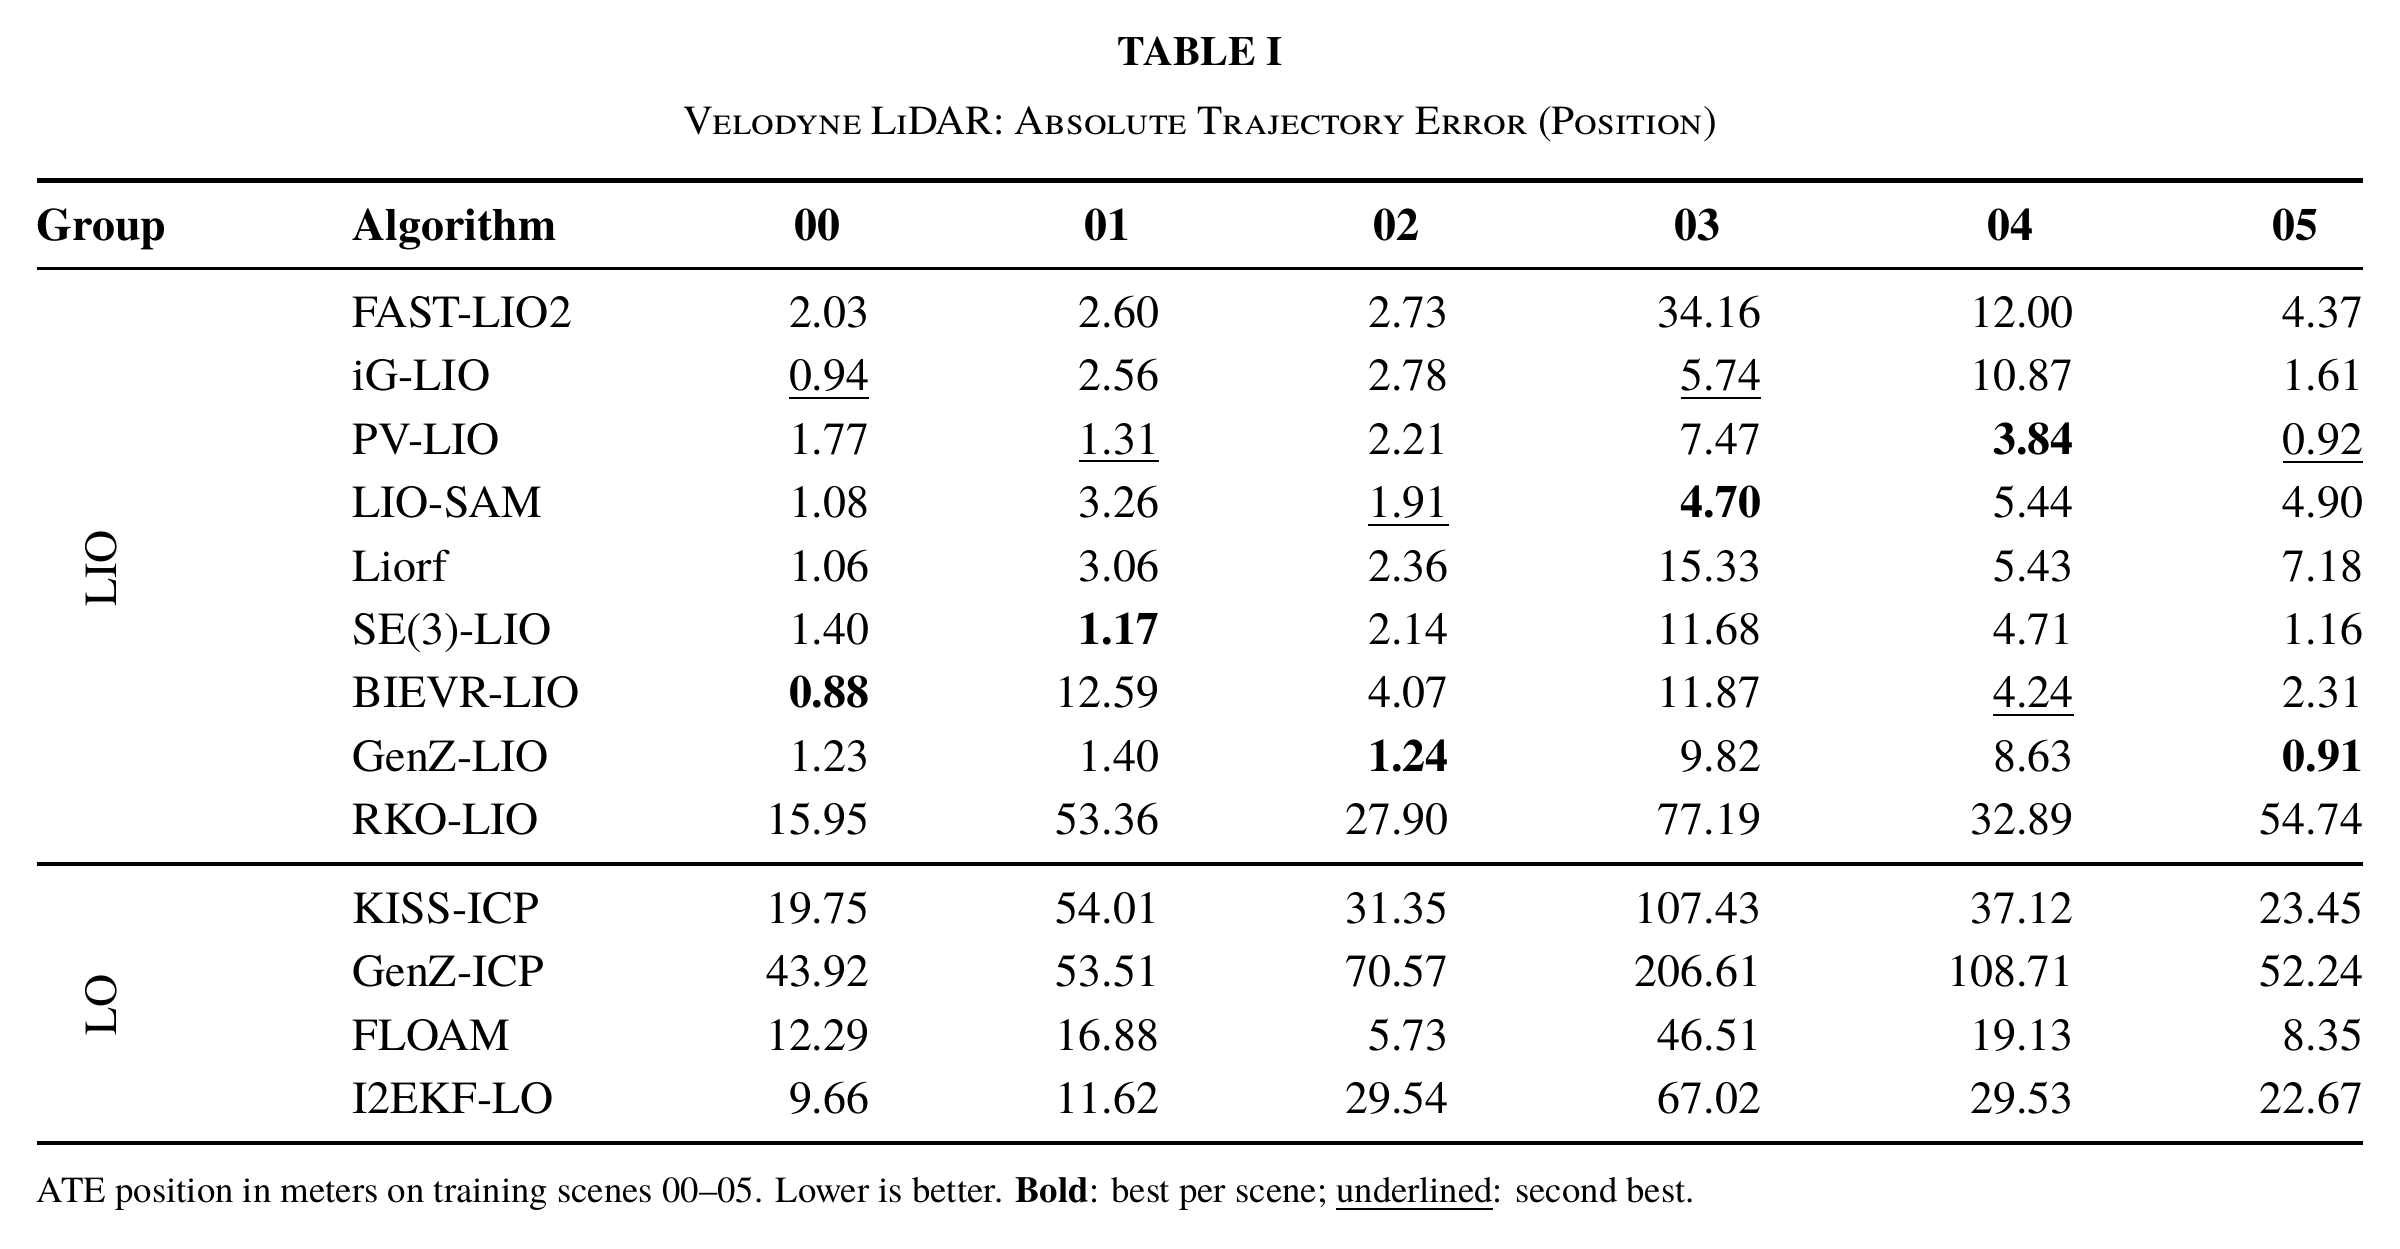
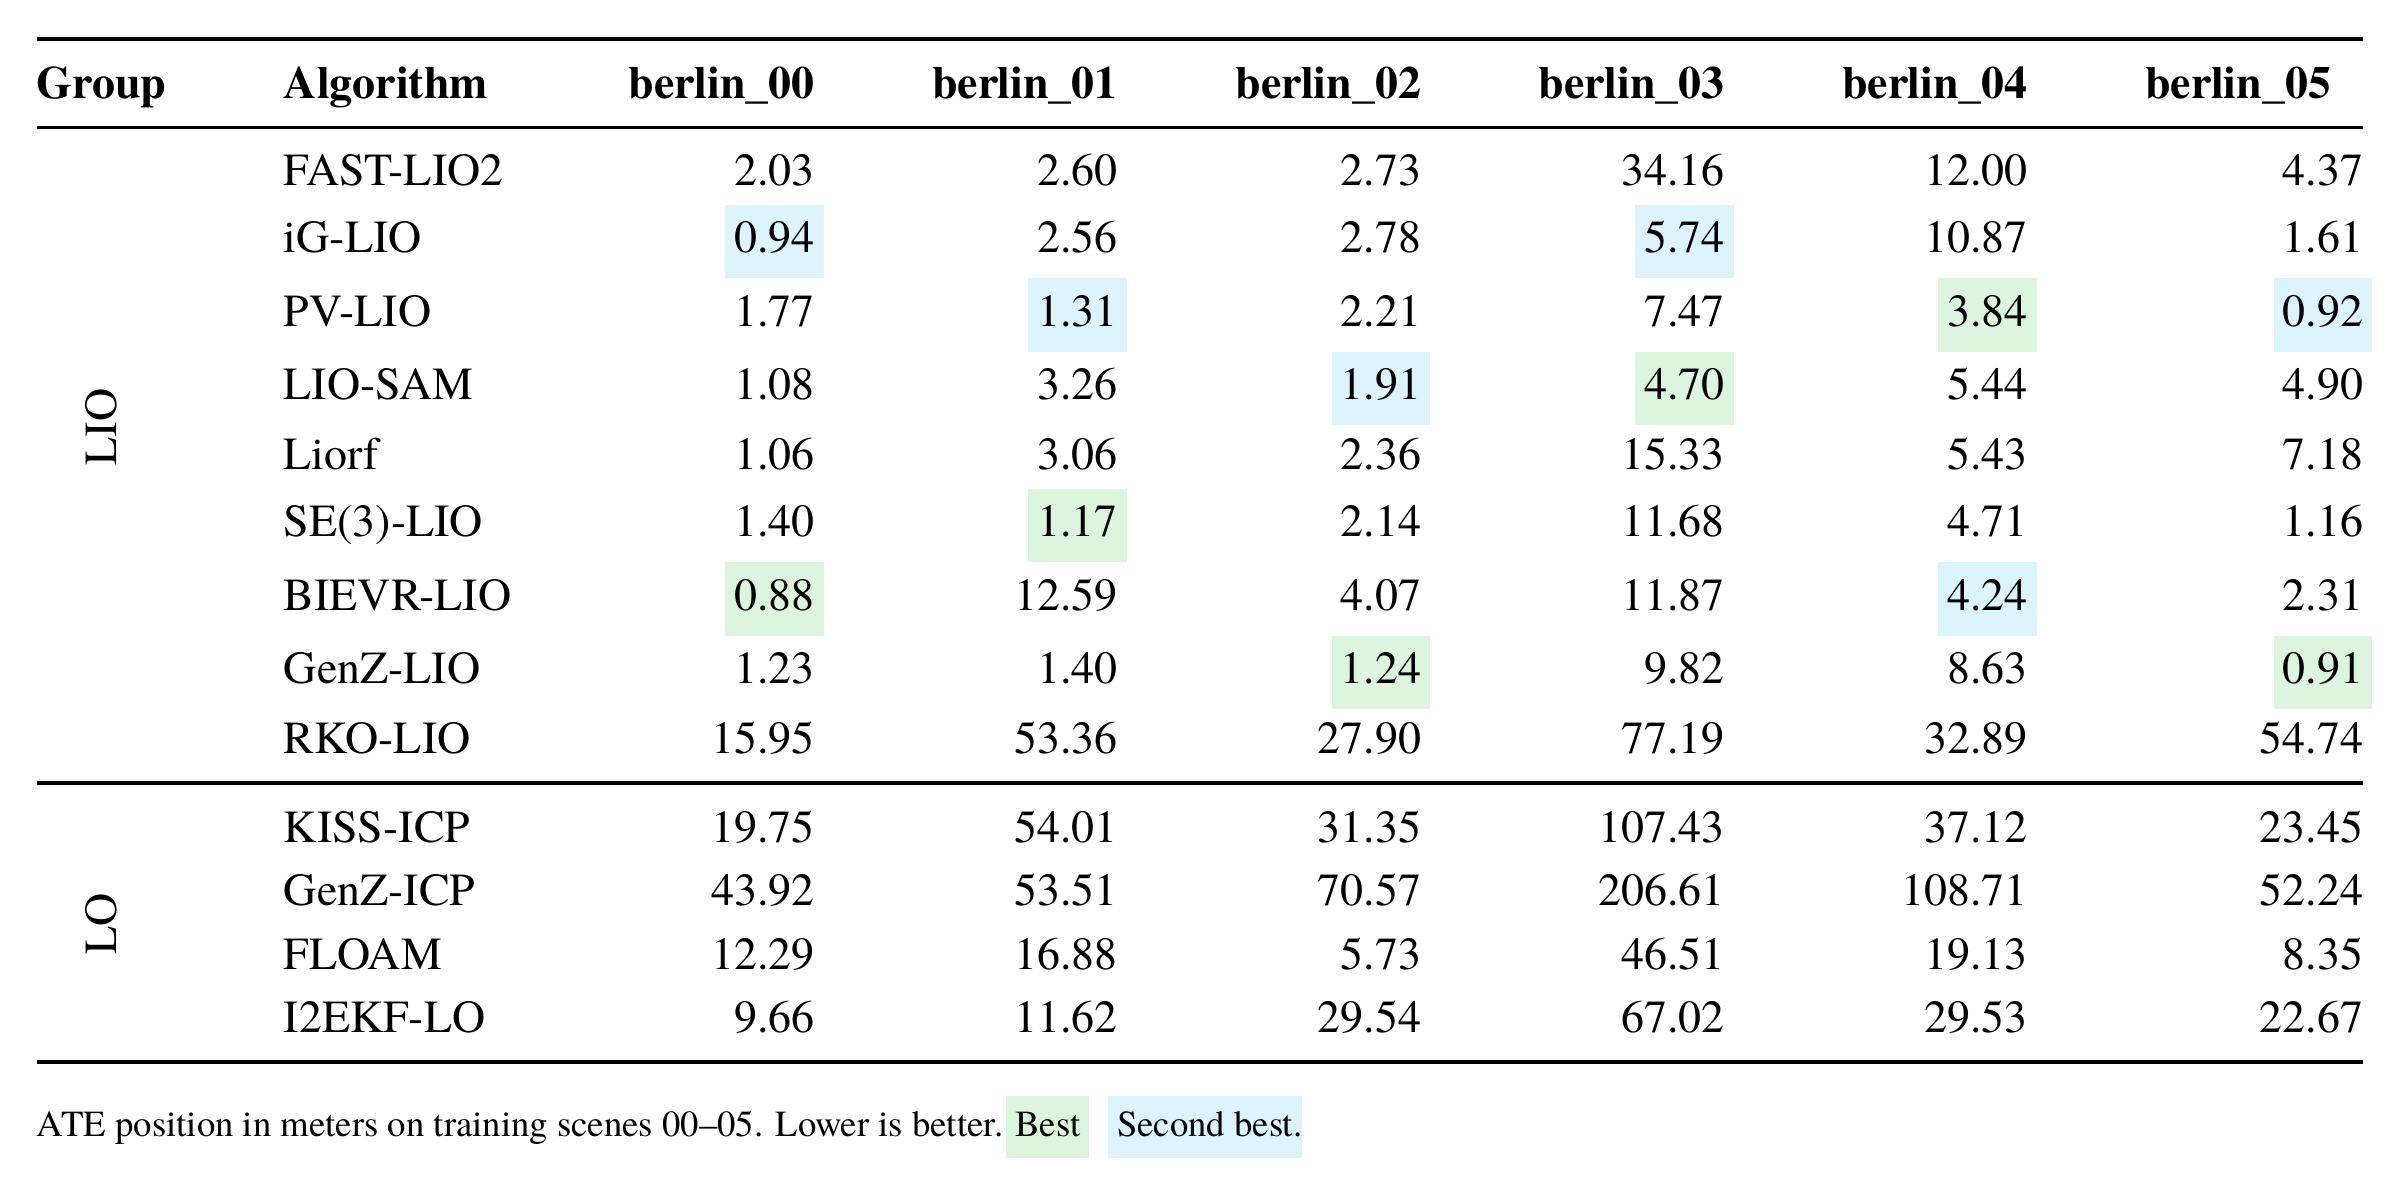
Use colored highlights and full scene labels in Velodyne PDF table

diff --git a/benchmarks/velodyne_ate_robotics.tex b/benchmarks/velodyne_ate_robotics.tex
@@ -1,29 +1,35 @@
 \documentclass[border=8pt]{standalone}
-\usepackage{booktabs,multirow,graphicx,fontspec}
+\usepackage{booktabs,multirow,graphicx,fontspec,xcolor}
 \setmainfont{texgyretermes-regular.otf}[
   BoldFont=texgyretermes-bold.otf,
   ItalicFont=texgyretermes-italic.otf,
   BoldItalicFont=texgyretermes-bolditalic.otf
 ]
+\definecolor{bestTint}{HTML}{DDF4DF}
+\definecolor{secondTint}{HTML}{DDF4FF}
+\newcommand{\atehighlight}[2]{%
+  \begingroup
+  \setlength{\fboxsep}{2pt}%
+  \kern-\fboxsep\colorbox{#1}{\strut #2}\kern-\fboxsep
+  \endgroup
+}
 \begin{document}
 \begin{minipage}{17.8cm}
 \centering
-{\small\textbf{TABLE I}\\[3pt]\textsc{Velodyne LiDAR: Absolute Trajectory Error (Position)}}
-\par\vspace{7pt}
 \renewcommand{\arraystretch}{1.15}
 \setlength{\tabcolsep}{7pt}
 \begin{tabular*}{\linewidth}{@{\extracolsep{\fill}}clrrrrrr@{}}
 \toprule[1pt]
-\textbf{Group} & \textbf{Algorithm} & \multicolumn{1}{c}{\textbf{00}} & \multicolumn{1}{c}{\textbf{01}} & \multicolumn{1}{c}{\textbf{02}} & \multicolumn{1}{c}{\textbf{03}} & \multicolumn{1}{c}{\textbf{04}} & \multicolumn{1}{c}{\textbf{05}} \\
+\textbf{Group} & \textbf{Algorithm} & \multicolumn{1}{c}{\textbf{berlin\_00}} & \multicolumn{1}{c}{\textbf{berlin\_01}} & \multicolumn{1}{c}{\textbf{berlin\_02}} & \multicolumn{1}{c}{\textbf{berlin\_03}} & \multicolumn{1}{c}{\textbf{berlin\_04}} & \multicolumn{1}{c}{\textbf{berlin\_05}} \\
 \midrule[0.7pt]
 \multirow{9}{*}{\rotatebox[origin=c]{90}{LIO}} & FAST-LIO2 & 2.03 & 2.60 & 2.73 & 34.16 & 12.00 & 4.37 \\
- & iG-LIO & \underline{0.94} & 2.56 & 2.78 & \underline{5.74} & 10.87 & 1.61 \\
- & PV-LIO & 1.77 & \underline{1.31} & 2.21 & 7.47 & \textbf{3.84} & \underline{0.92} \\
- & LIO-SAM & 1.08 & 3.26 & \underline{1.91} & \textbf{4.70} & 5.44 & 4.90 \\
+ & iG-LIO & \atehighlight{secondTint}{0.94} & 2.56 & 2.78 & \atehighlight{secondTint}{5.74} & 10.87 & 1.61 \\
+ & PV-LIO & 1.77 & \atehighlight{secondTint}{1.31} & 2.21 & 7.47 & \atehighlight{bestTint}{3.84} & \atehighlight{secondTint}{0.92} \\
+ & LIO-SAM & 1.08 & 3.26 & \atehighlight{secondTint}{1.91} & \atehighlight{bestTint}{4.70} & 5.44 & 4.90 \\
  & Liorf & 1.06 & 3.06 & 2.36 & 15.33 & 5.43 & 7.18 \\
- & SE(3)-LIO & 1.40 & \textbf{1.17} & 2.14 & 11.68 & 4.71 & 1.16 \\
- & BIEVR-LIO & \textbf{0.88} & 12.59 & 4.07 & 11.87 & \underline{4.24} & 2.31 \\
- & GenZ-LIO & 1.23 & 1.40 & \textbf{1.24} & 9.82 & 8.63 & \textbf{0.91} \\
+ & SE(3)-LIO & 1.40 & \atehighlight{bestTint}{1.17} & 2.14 & 11.68 & 4.71 & 1.16 \\
+ & BIEVR-LIO & \atehighlight{bestTint}{0.88} & 12.59 & 4.07 & 11.87 & \atehighlight{secondTint}{4.24} & 2.31 \\
+ & GenZ-LIO & 1.23 & 1.40 & \atehighlight{bestTint}{1.24} & 9.82 & 8.63 & \atehighlight{bestTint}{0.91} \\
  & RKO-LIO & 15.95 & 53.36 & 27.90 & 77.19 & 32.89 & 54.74 \\
 \midrule[1pt]
 \multirow{4}{*}{\rotatebox[origin=c]{90}{LO}} & KISS-ICP & 19.75 & 54.01 & 31.35 & 107.43 & 37.12 & 23.45 \\
@@ -34,6 +40,6 @@
 \end{tabular*}
 \par\vspace{6pt}
 {\footnotesize\raggedright ATE position in meters on training scenes 00--05. Lower is better.
-\textbf{Bold}: best per scene; \underline{underlined}: second best.\par}
+\atehighlight{bestTint}{Best}\quad\atehighlight{secondTint}{Second best}.\par}
 \end{minipage}
 \end{document}

diff --git a/benchmarks/slam.md b/benchmarks/slam.md
@@ -30,26 +30,6 @@ $$
 \end{array}
 $$
 
-### Standard GitHub table
-
-**ATE position [m].** **Best** · <ins>Second best</ins>.
-
-| Group | Algorithm | 00 | 01 | 02 | 03 | 04 | 05 |
-| :---: | :--- | ---: | ---: | ---: | ---: | ---: | ---: |
-| LIO | FAST-LIO2 | 2.03 | 2.60 | 2.73 | 34.16 | 12.00 | 4.37 |
-|  | iG-LIO | <ins>0.94</ins> | 2.56 | 2.78 | <ins>5.74</ins> | 10.87 | 1.61 |
-|  | PV-LIO | 1.77 | <ins>1.31</ins> | 2.21 | 7.47 | **3.84** | <ins>0.92</ins> |
-|  | LIO-SAM | 1.08 | 3.26 | <ins>1.91</ins> | **4.70** | 5.44 | 4.90 |
-|  | Liorf | 1.06 | 3.06 | 2.36 | 15.33 | 5.43 | 7.18 |
-|  | SE(3)-LIO | 1.40 | **1.17** | 2.14 | 11.68 | 4.71 | 1.16 |
-|  | BIEVR-LIO | **0.88** | 12.59 | 4.07 | 11.87 | <ins>4.24</ins> | 2.31 |
-|  | GenZ-LIO | 1.23 | 1.40 | **1.24** | 9.82 | 8.63 | **0.91** |
-|  | RKO-LIO | 15.95 | 53.36 | 27.90 | 77.19 | 32.89 | 54.74 |
-| LO | KISS-ICP | 19.75 | 54.01 | 31.35 | 107.43 | 37.12 | 23.45 |
-|  | GenZ-ICP | 43.92 | 53.51 | 70.57 | 206.61 | 108.71 | 52.24 |
-|  | FLOAM | 12.29 | 16.88 | 5.73 | 46.51 | 19.13 | 8.35 |
-|  | I2EKF-LO | 9.66 | 11.62 | 29.54 | 67.02 | 29.53 | 22.67 |
-
 ### Robotics paper table (PDF)
 
 [![Velodyne LiDAR ATE table in robotics paper style](../figures/velodyne_ate_robotics.png)](../figures/velodyne_ate_robotics.pdf)
